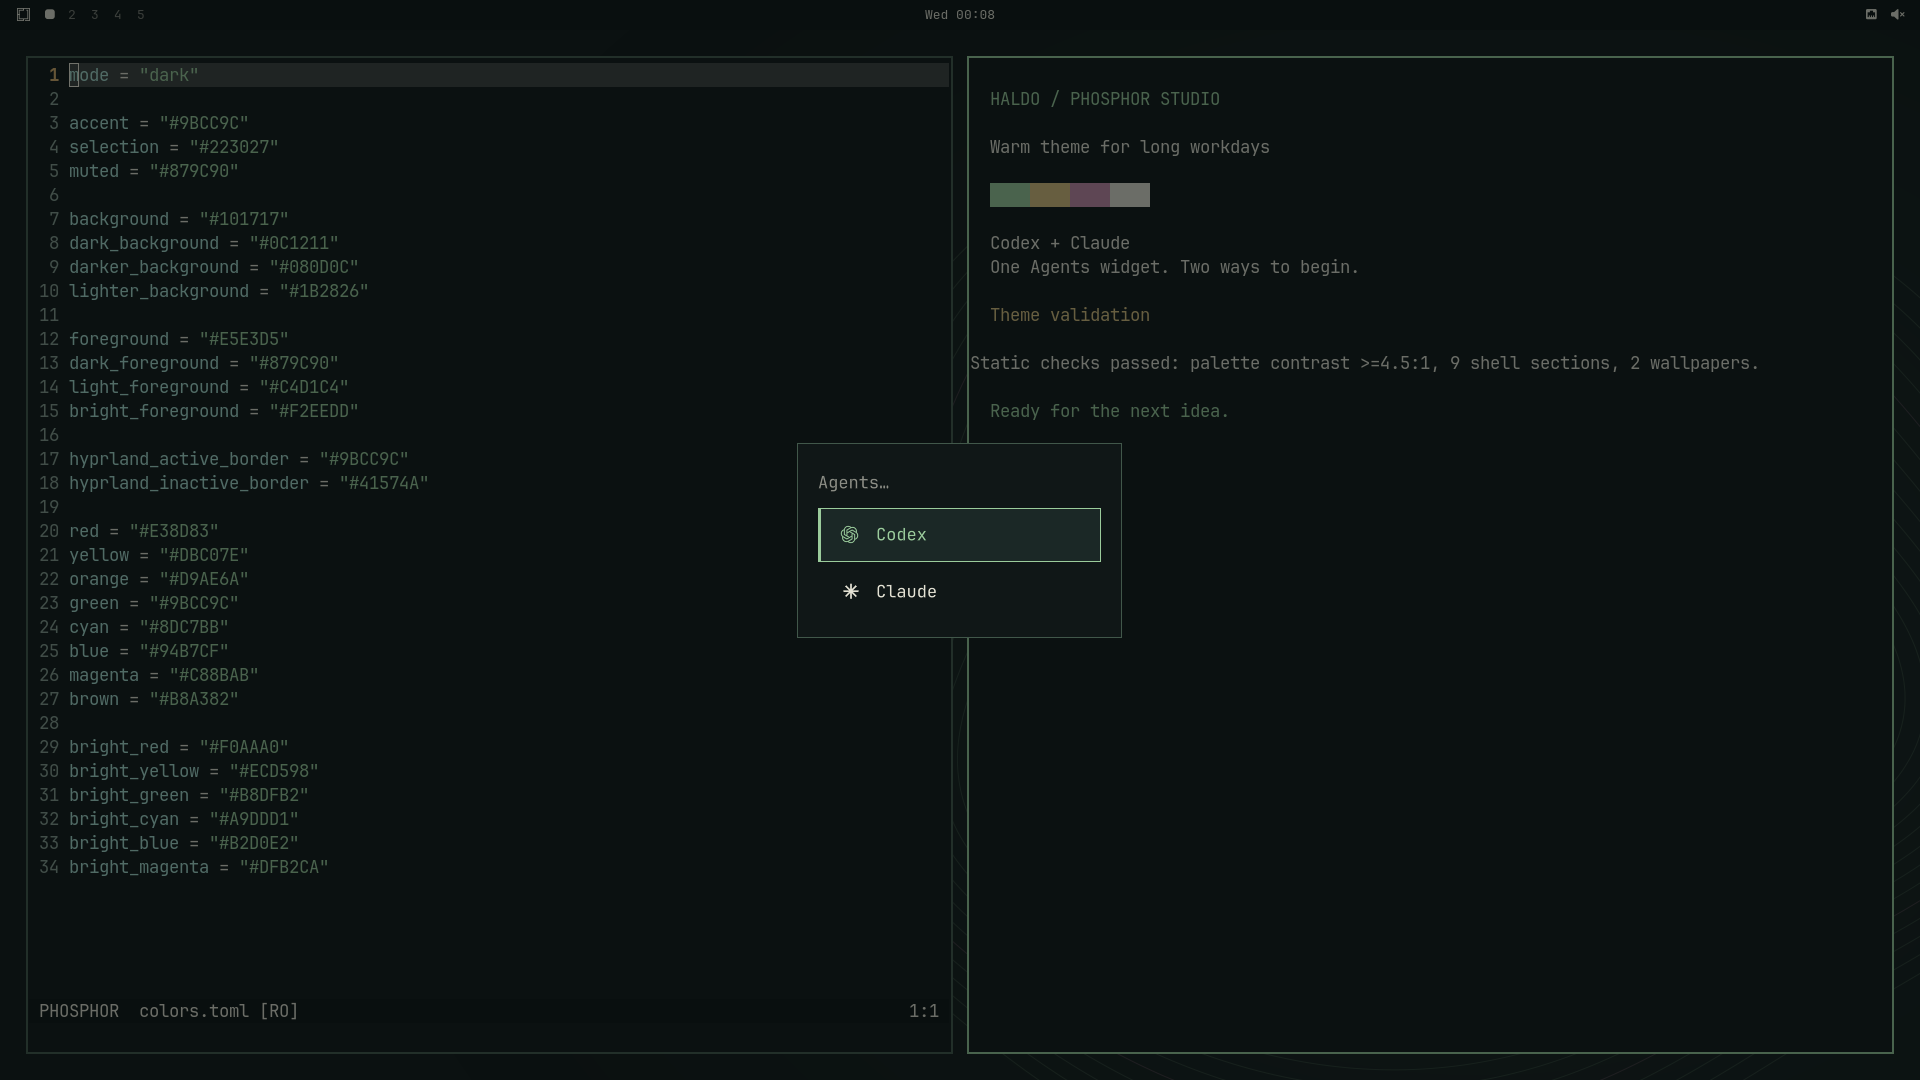
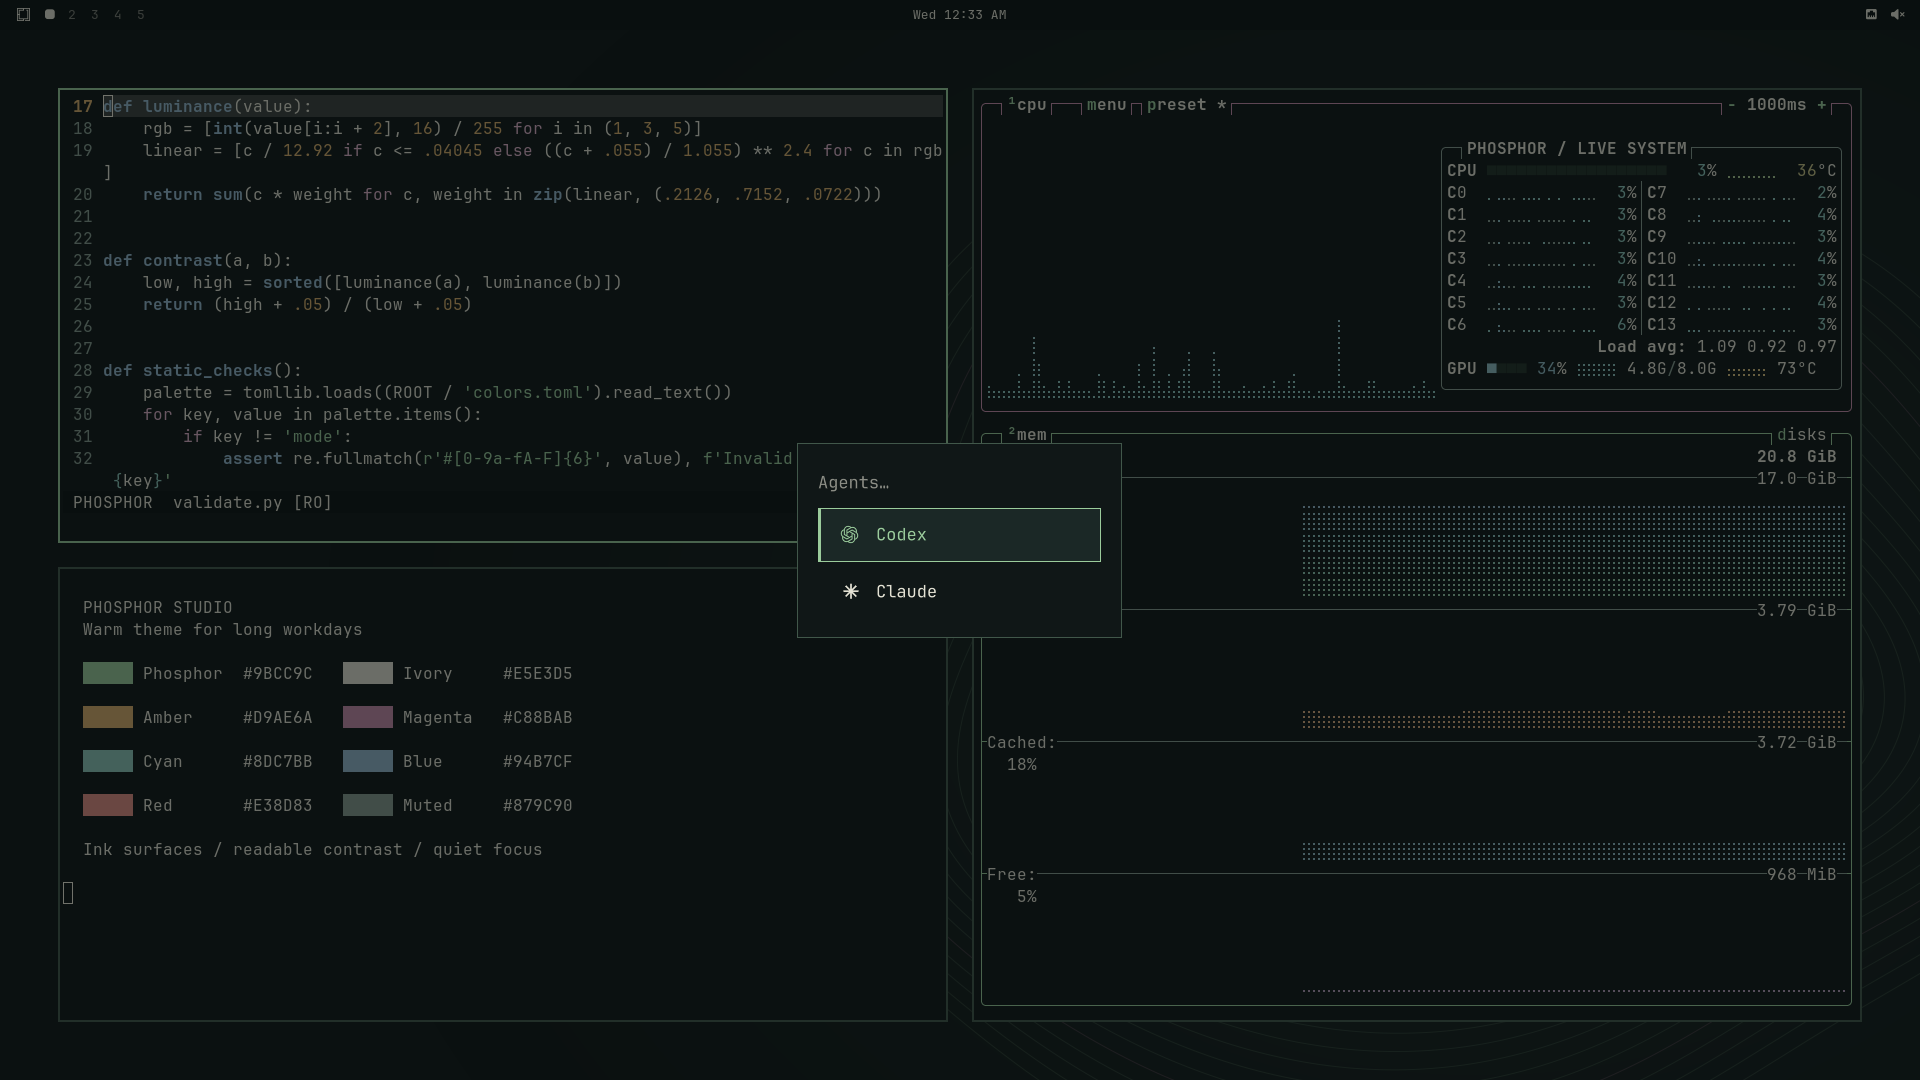
docs: refresh README with live btop showcase

diff --git a/docs/validation.md b/docs/validation.md
@@ -26,10 +26,19 @@ Hyprland **0.56.2-4**, Quickshell **0.3.2.r7.g2b4501a-1**.
 - An isolated nested Wayland compositor ran the actual packaged Omarchy shell.
   Foot used its generated colors; Neovim used the generated Aether v3 palette.
   The actual menu displayed both Codex and Claude. No agent sessions were started.
-- `preview.png` is an unmodified 1920x1080 real desktop capture with the
-  included wallpaper, a terminal and editor, no pointer, and no notifications.
-  `docs/images/agents-menu.png` captures the native menu. Neither is a browser
-  mockup. The gallery WebP is 1200x675, stripped, and 34,558 bytes.
+- README screenshots were refreshed on October 21, 2026. `preview.png` is a
+  1920x1080 real desktop capture with live btop CPU/memory graphs, Neovim showing
+  the project's Python source, labeled palette swatches in a terminal, and the
+  included wallpaper. `docs/images/agents-menu.png` shows the native Codex/Claude
+  menu over the same workspace. The centered AM/PM clock is visible. Neither
+  image is a mockup; only image metadata was stripped after capture.
+- Btop uses Omarchy's generated palette. Its CPU title is customized for the
+  showcase; utilization and memory graphs are real. Process lists, network and
+  disks were hidden, and no personal paths, authenticated agent data, mouse
+  pointer or notifications are shown.
+- The gallery PR retains its original separate WebP capture, 1200x675,
+  metadata stripped, and 34,558 bytes. This README refresh does not change that
+  upstream contribution.
 - A fresh read-only reviewer found a test portability issue; the missing-config
   test now uses an explicit packaged-default fixture. The complete test
   suite also passes with the external `OMARCHY_PATH` pointing at a nonexistent
@@ -39,8 +48,7 @@ Hyprland **0.56.2-4**, Quickshell **0.3.2.r7.g2b4501a-1**.
 
 The AM/PM format was checked with native Qt formatting at midnight, noon and
 15:05, including a negative probe that exited nonzero on a wrong expectation.
-Existing desktop screenshots show the initial 24-hour-clock build; the new
-profile settings were verified independently, not recaptured in those images.
+The refreshed README captures also show the actual AM/PM bar label.
 
 The test compositor used a separate HOME, runtime directory and private D-Bus
 session. Idle, polkit, notifications and night light were disabled only in that

diff --git a/README.md b/README.md
@@ -4,10 +4,16 @@
 with warm green, ivory text, amber details, and restrained magenta. Original
 signal-contour wallpapers leave room for terminals, editors, and focused work.
 
-![Phosphor Studio running in an isolated Omarchy Wayland session](preview.png)
+![Phosphor Studio with live btop graphs, themed Neovim source, and labeled palette swatches](preview.png)
 
-The preview shows the initial build. The current workstation profile uses a
-centered AM/PM clock and includes the native Omarchy update indicator.
+Live btop CPU and memory graphs, Neovim, and the Phosphor palette in an isolated
+Omarchy session. The centered clock uses AM/PM; the original signal wallpaper
+and native shell share the same warm green and ivory palette.
+
+![Native Codex and Claude menu over the Phosphor Studio workspace](docs/images/agents-menu.png)
+
+The native Agents menu keeps Codex and Claude equally accessible. Both images
+are real 1920×1080 Wayland captures, not mockups.
 
 ## Install
 

diff --git a/CREDITS.md b/CREDITS.md
@@ -13,6 +13,6 @@
 - Runtime editor verification uses Omarchy's configured Aether v3 Neovim theme
   with generated palette settings. Aether code is not bundled in this project.
 
-The desktop preview is a real isolated Omarchy/Hyprland session with Foot and
-Neovim, using the included wallpaper and generated theme files. It is not the
+The desktop preview is a real isolated Omarchy/Hyprland session with Foot,
+btop and Neovim, using the included wallpaper and generated theme files. It is not the
 earlier browser concept mockup. No authenticated agent account data is shown.
